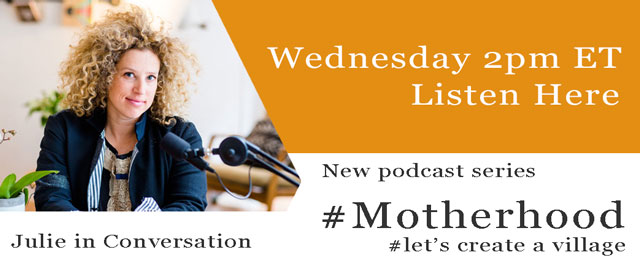
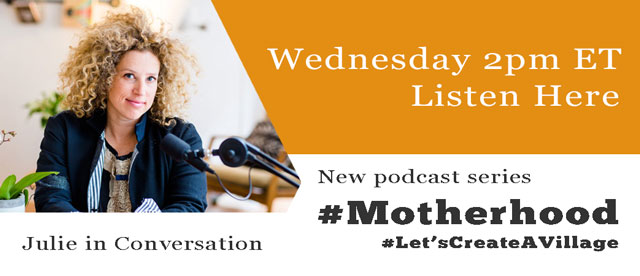
add call to action btn to podcast page & update author bio on blogposts

diff --git a/uno/sass/style.scss b/uno/sass/style.scss
@@ -2277,13 +2277,23 @@ section.right {
   right: 7%;
 }
 
+.podcast-main-cta {
+	position: absolute;
+	left: calc(50% - 48px);
+	top: calc(62% - 1vw);
+	.btn {
+		font-size: 1.2rem;
+		padding: 8px 14px;
+	}
+}
+
 .podcast-main-tagline {
 	position: absolute;
-	bottom: calc(1% + 4vw);
-	right: 7%;
-	text-align: right;
-	font-family: 'Georgia', serif;
-	font-style: italic;
+  bottom: 2vw;
+  right: 7%;
+  text-align: right;
+  font-family: 'Georgia', serif;
+  font-style: italic;
 }
 
 .podcast-newsletter {
@@ -2541,7 +2551,7 @@ hr.down:after {
 @media all and (max-width: 640px) {
 	section.left {
 		width: 100%;
-	  height: calc(3rem + 11vw);
+		height: calc(7.5rem + 11vw);
 	  min-height: auto;
 	}
 	.podcast-main-title {
@@ -2554,6 +2564,15 @@ hr.down:after {
     top: calc(25% + 5vw);
     left: 10%;
 		right: auto;
+	}
+	.podcast-main-cta {
+	  position: absolute;
+	  left: 10%;
+	  bottom: 2%;
+	}
+	.podcast-main-cta .btn {
+	  font-size: 1.1rem;
+	  padding: 6px 10px;
 	}
 	.podcast-main-tagline {
 		display: none;
@@ -2875,17 +2894,21 @@ ul.heateor_sss_sharing_ul li {
 }
 
 .author-wrapper {
-	margin: 2rem 0;
+	margin: 1rem 0;
+	display: inline-block;
 }
 
 .author-image {
 	float: left;
 	margin-right: 1.5rem;
+  border: 1px solid #ccc;
+  padding: 5px;
 }
 
 .author-description {
 	h1 { display: none; }
-	p {display: none; }
+	p:first-child, p:last-child {display: none; }
+	p { margin: 0; }
 }
 
 .nocomments {
@@ -2903,11 +2926,19 @@ ul.heateor_sss_sharing_ul li {
 }
 
 @media all and (max-width: 480px){
+	.author-description br {
+		display: none;
+	}
 	.author-image {
 	  float: none;
 	  margin: 0 auto 1.5rem auto;
 	  text-align: center;
 	  overflow: hidden;
+		border: none;
+		img {
+			padding: 5px;
+			border: 1px solid #ccc;
+		}
 	}
 	.post-meta li {
     float: left;

diff --git a/uno/template-podcast-main.php b/uno/template-podcast-main.php
@@ -24,15 +24,10 @@
            <section class="left">
              <h1 class='podcast-main-title'><?php the_title(); ?></h1>
              <div class="podcast-main-title-underline">a live podcast</div>
-             <div class="podcast-main-tagline">Inspiring individual<br>and global change</div>
-             <!-- <div class="podcast-main-middle">
-               <p>#motherhood</p>
-               <p>#let's create a village</p>
-             </div> -->
-             <!-- <div class="podcast-main-bottom">
-               a new series with
-               <h1 class="title">Julie Cusmariu</h1>
-             </div> -->
+             <div class="podcast-main-tagline">Inspiring individual and global change</div>
+             <div class="podcast-main-cta cta">
+               <a id="podcast-cta" class="btn brown hover grow-more" href="#cta-listen">Listen</a>
+             </div>
            </section>
            <section class="right" style="background-image:url('<?php chi_display_header(); ?>')">
            </section>
@@ -185,7 +180,7 @@
       <h1 class="title" style="font-size: 2em !important;margin-top: .75rem;">Subscribe</h1>
       <a href="https://itunes.apple.com/us/podcast/heart-beat-internet-radio/id310513252?mt=2" class="btn soft-white rounded grow" target="_blank"><i class="fa fa-apple"></i> Apple Podcasts</a><br>
       <a class="btn soft-white rounded grow" onclick="newsletterFocus()"><i class="fa fa-envelope"></i>  Podcast news</a><br>
-      <a href="#listen-to-archives" class="btn soft-white rounded grow podcast podcast-full podcast-full-keep">Listen to archives</a><br>
+      <a id="listen-to-archives" href="#listen-to-archives" class="btn soft-white rounded grow podcast podcast-full podcast-full-keep">Listen to archives</a><br>
     </div>
   </div>
 </div>

diff --git a/uno/content-post.php b/uno/content-post.php
@@ -73,10 +73,10 @@ woo_post_before();
 
 	<div class="author-wrapper">
 		<div class="author-image">
-			<img src="<?php the_field('radio_host_image', 4237); ?>" width="250px" height="250px">
+			<img src="<?php the_field('radio_host_image', 4237); ?>" width="125px" height="125px">
 		</div>
 		<div class="author-description">
-			<p><?php the_field('radio_host_bio', 4237); ?></p>
+			<p><?php the_field('blogpost_author_bio', 4237); ?></p>
 		</div>
 	</div>
 
